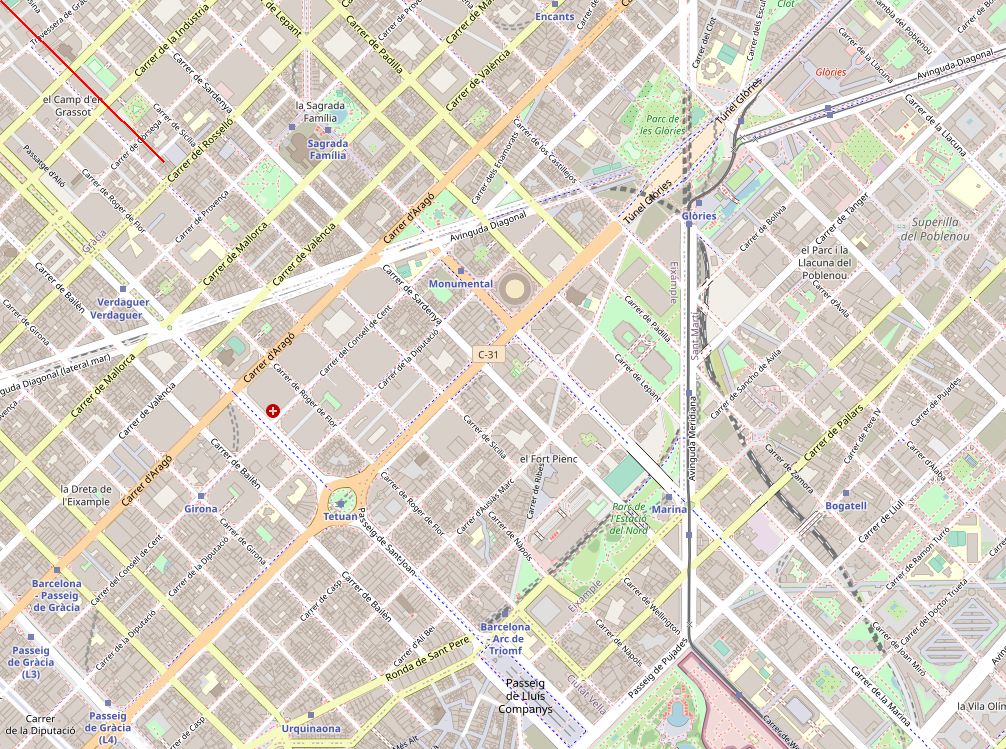
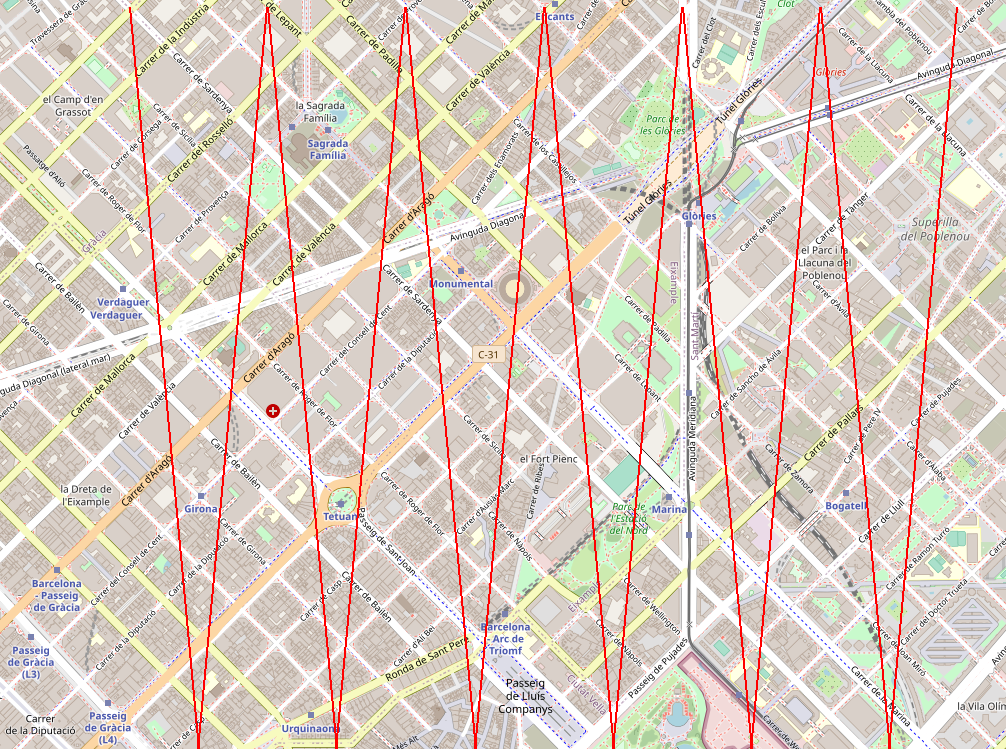
Ara es pot construit un graph a partir d'un arxiu .csv amb les posicions dels seus vèrtexs.

diff --git a/Programa/core.py b/Programa/core.py
@@ -1,16 +1,30 @@
+import pandas as pd
+import numpy as np
+import matplotlib.pyplot as plt
+
 INFINITY = 2**50
 
 class Graph:
-    def __init__(self, n: int):
-        self.vertices = n
+    def __init__(self, data_path="data.csv"):
+        data = pd.read_csv(data_path, names=['LATITUD', 'LONGITUD'], sep=",", comment="#")
+        graph_data = tuple(zip(data['LATITUD'].values, data['LONGITUD'].values))
+
+        self.vertices = int(data.size/2) #It is a tuple, so data is 2n but the vertex count is n
         self.positions = {int:[float, float]}
         self.edges = {int:list[int]}
         self.weight = {int:{int:int}}
 
-        for i in range(1,n+1):
-            self.edges.update({i:[]})
-            for j in range(1,n+1):
-                self.weight.update({i:{j:INFINITY}})
+        self.vertex_coord = {int:(float,float)}
+
+        #Based on the data(pos) in the csv file, we can know how many vertices there are, their positions and initislize
+        #both the adjacency list and the weight matrix.
+        index = 1
+        for d in graph_data:
+            self.edges.update({index:[]})
+            self.vertex_coord[index] = d
+            for j in range(1, self.vertices+1):
+                self.weight.update({index:{j:INFINITY}})
+            index = index + 1
     
     def set_edge(self, v0: int, vf: int, w: int):
         self.edges[v0].append(vf)
@@ -18,6 +32,9 @@ class Graph:
     
     def set_node_pos(self, index: int, x: float, y:float):
         self.positions[index] = [x, y]
+
+    def set_vertex_coord(self, index, pos: tuple[float,float]):
+        self.vertex_coord.update({index:pos})
 
 #FIXME: Returns euclidean distance from the window atm. Should
         #take weight(distance) into account, not just windowPos.

diff --git a/Programa/map_painter.py b/Programa/map_painter.py
@@ -1,6 +1,3 @@
-import pandas as pd
-import numpy as np
-import matplotlib.pyplot as plt
 from PIL import Image, ImageDraw
 
 class MapPainter:
@@ -12,7 +9,7 @@ class MapPainter:
         self.lat = [41.4051,41.3905]
         self.lon = [2.1728,2.1962]
 
-    def coord_to_img(self, x, y):
+    def coord_to_img(self, x: float, y:float ) -> tuple[float,float]:
         #https://gamedev.stackexchange.com/questions/33441/how-to-convert-a-number-from-one-min-max-set-to-another-min-max-set/33445
         x_conv = abs(((x-self.lat[0])/(self.lat[1]-self.lat[0]))*(self.image.size[0]))
         y_conv = ((y-self.lon[0])/(self.lon[1]-self.lon[0]))*(self.image.size[1])
@@ -21,7 +18,7 @@ class MapPainter:
 
         return x_conv, y_conv
 
-    def img_to_coord(self, x, y):
+    def img_to_coord(self, x: float, y: float) -> tuple[float,float]:
         #https://gamedev.stackexchange.com/questions/33441/how-to-convert-a-number-from-one-min-max-set-to-another-min-max-set/33445
         #Result := ((Input - InputLow) / (InputHigh - InputLow)) * (OutputHigh - OutputLow) + OutputLow;
         
@@ -32,10 +29,23 @@ class MapPainter:
 
         return x_conv, y_conv
 
-    def insert_into_route(self, x, y):
+    def insert_into_route(self, x: float, y: float):
         self.points.append(self.coord_to_img(x, y))
 
     def paint_map(self):
         draw = ImageDraw.Draw(self.image)
         draw.line(self.points, fill=(255, 0, 0), width=2)
         self.image.save('result_Map.png')
+
+"""
+p = MapPainter()
+
+for i in range(0, 14):
+    if i == 11:
+        continue
+
+    x, y = p.img_to_coord(130+i*69, 7)
+    p.insert_into_route(x, y)
+
+p.paint_map()
+"""

diff --git a/Programa/main_window.py b/Programa/main_window.py
@@ -42,3 +42,6 @@ class Ui_MainWindow(object):
         _translate = QtCore.QCoreApplication.translate
         MainWindow.setWindowTitle(_translate("MainWindow", "MainWindow"))
         self.gayButton.setText(_translate("MainWindow", "GAY"))
+
+    def mousePressEvent(self, QMouseEvent):
+        print(QMouseEvent.pos())
